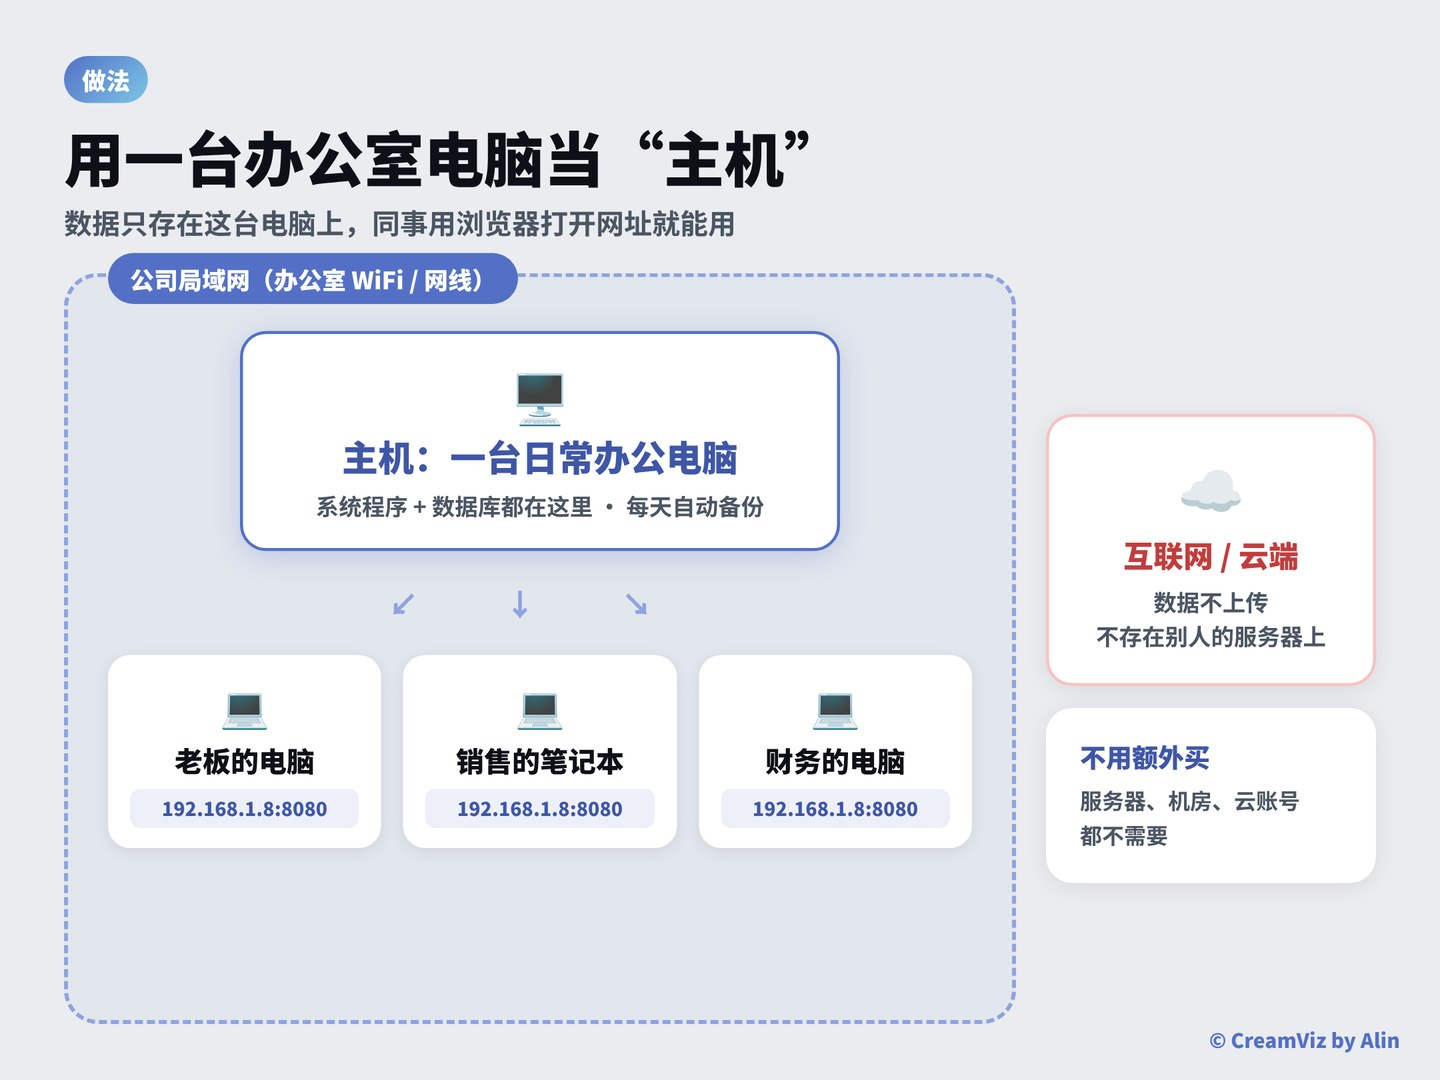
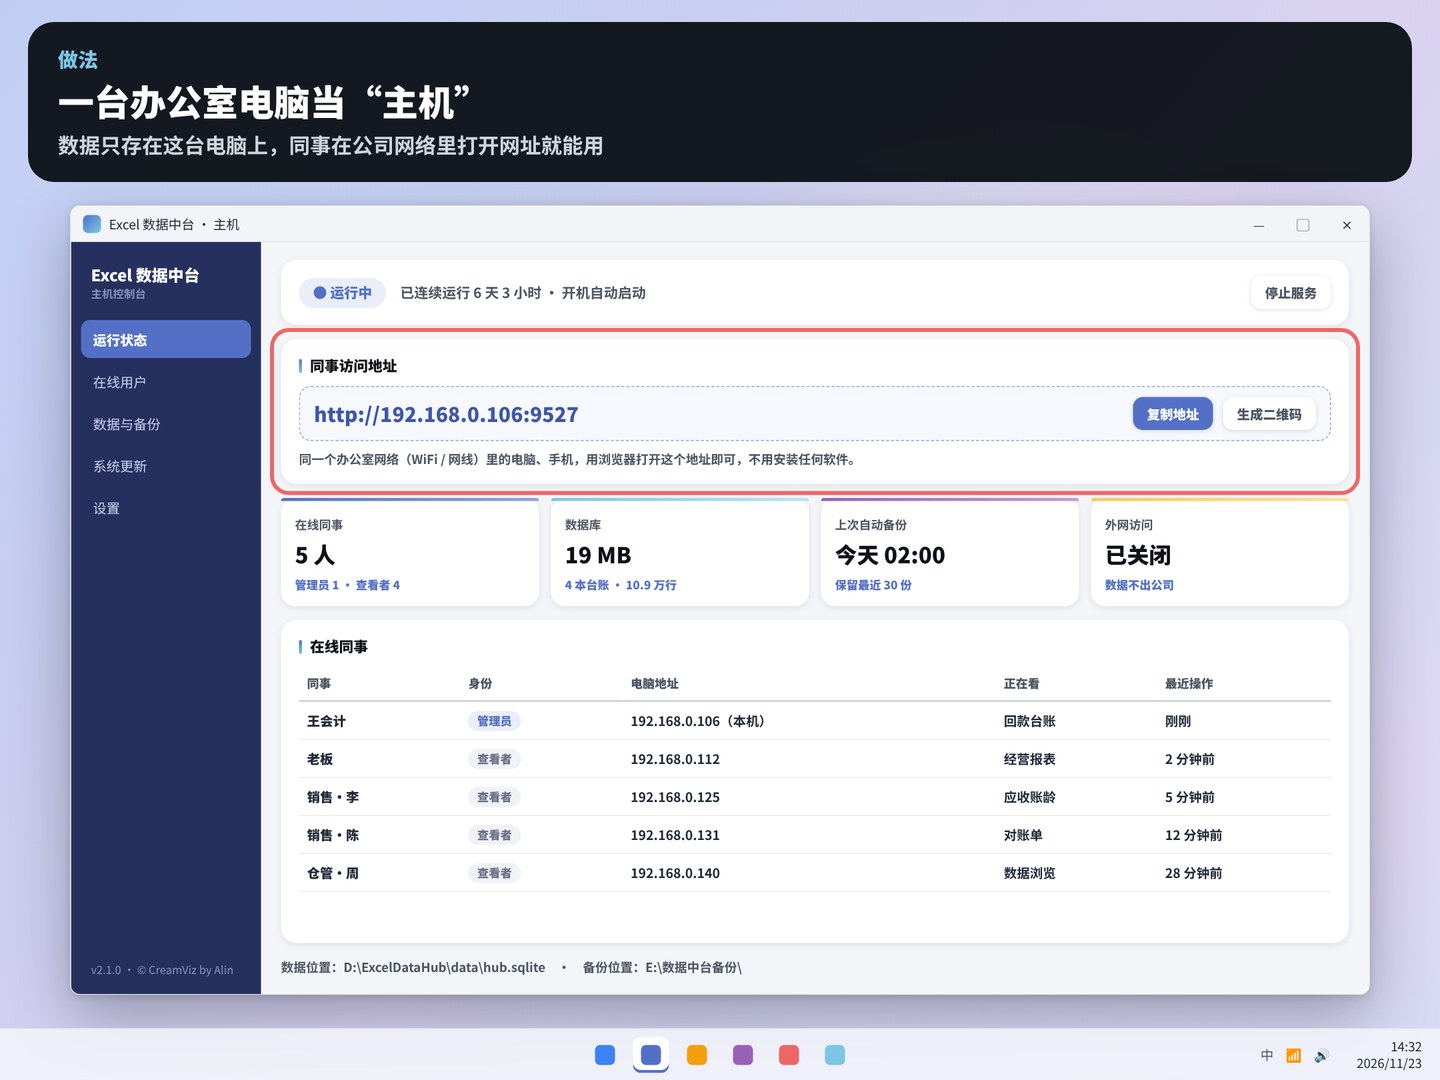
lan-web: realistic demo screenshots, fake LAN address 192.168.0.106:9527
Claude-Session: https://claude.ai/code/session_0145gsUrqt3DggGQc9YvPLnY

diff --git a/posts/2026-11-23-lan-web/note.md b/posts/2026-11-23-lan-web/note.md
@@ -1,4 +1,4 @@
-> 给发帖 AI：按 01→07 顺序上传，话题从下拉逐个选中；发布前请用户确认。图片为思路示意图（slides.html 生成），不涉及任何真实系统。
+> 给发帖 AI：按 01→07 顺序上传，话题从下拉逐个选中；发布前请用户确认。图片为思路演示截图（slides.html 生成），不涉及任何真实系统。
 
 # 数据改了，不用再一遍遍发文件给同事
 
@@ -25,7 +25,7 @@
 
 CreamViz 接下来的系统都按这个思路做：数据留在公司，网址打开就用。
 
-（图为示意图）你们公司现在怎么同步数据？还在群里发文件吗？评论区聊聊👇
+（图为演示截图）你们公司现在怎么同步数据？还在群里发文件吗？评论区聊聊👇
 
 话题：#办公效率 #财务人 #Excel技巧 #小公司管理 #数据安全 #企业管理 #一人公司 #数字化转型
 
